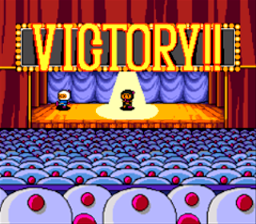
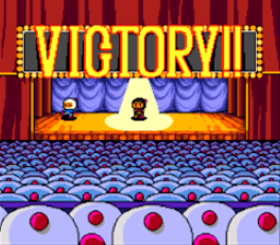
Lose Screen and Win Screen

diff --git a/L10_Project_Gamepad_and_Fullscreen_handout/Source/SceneLevel1.cpp b/L10_Project_Gamepad_and_Fullscreen_handout/Source/SceneLevel1.cpp
@@ -28,6 +28,10 @@ bool SceneLevel1::Start()
 
 	bgTexture = App->textures->Load("Assets/Map/mapa.png");
 	App->audio->PlayMusic("Assets/Audio/music/Area_1.ogg", 1.0f);
+	loseScreen = App->textures->Load("Assets/Screens/lose.PNG");
+	winScreen = App->textures->Load("Assets/Screens/win.PNG");
+	hud = App->textures->Load("Assets/Hud/hud.png");
+	
 
 	// Colliders
 
@@ -108,14 +112,14 @@ UpdateResult SceneLevel1::PostUpdate()
 {
 	// Draw everything
 	App->render->DrawTexture(bgTexture, 0, 0, NULL);
-	App->render->DrawTexture(hud, 0, -20, NULL);
+	App->render->DrawTexture(hud, 0, -8, NULL);
 	if (App->player->destroyed == true || App->input->keys[SDL_SCANCODE_F4] == KeyState::KEY_REPEAT)
 	{
-		App->render->DrawTexture(loseScreen, 0, -20, NULL);
+		App->render->DrawTexture(loseScreen, -20, 15, NULL);
 	}
 	if (App->input->keys[SDL_SCANCODE_F3] == KeyState::KEY_REPEAT)
 	{
-		App->render->DrawTexture(winScreen, 0, -20, NULL);
+		App->render->DrawTexture(winScreen, -10, 15, NULL);
 	}
 	return UpdateResult::UPDATE_CONTINUE;
 	return UpdateResult::UPDATE_CONTINUE;

diff --git a/L10_Project_Gamepad_and_Fullscreen_handout/Source/ModulePlayer.cpp b/L10_Project_Gamepad_and_Fullscreen_handout/Source/ModulePlayer.cpp
@@ -219,7 +219,7 @@ void ModulePlayer::OnCollision(Collider* c1, Collider* c2)
 
 
 			// L10: DONE 3: Go back to the intro scene when the player gets killed
-			App->fade->FadeToBlack((Module*)App->sceneLevel_1, (Module*)App->sceneIntro, 60);
+			App->fade->FadeToBlack((Module*)App->sceneLevel_1, (Module*)App->sceneIntro, 360);
 
 			destroyed = true;
 		}
